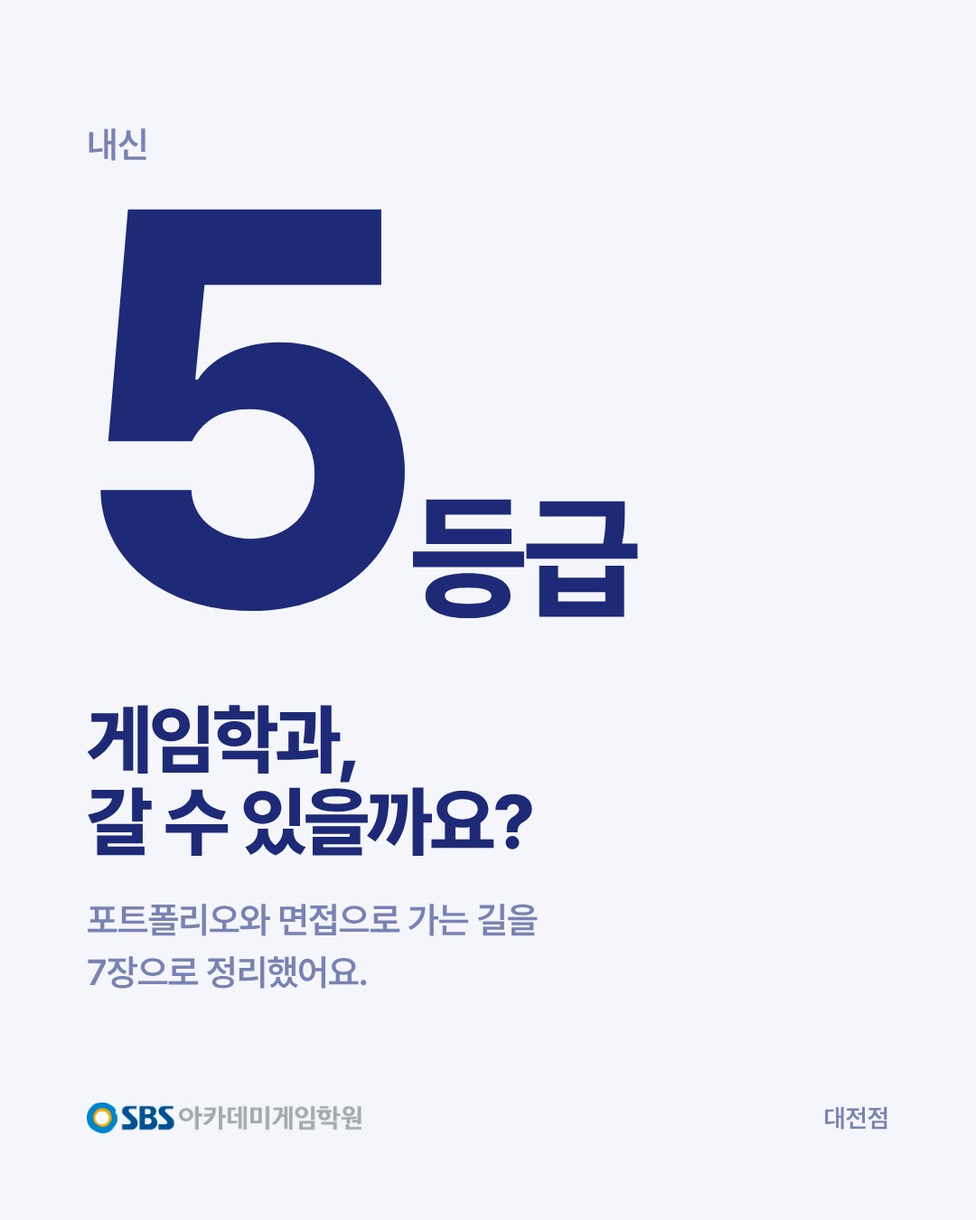
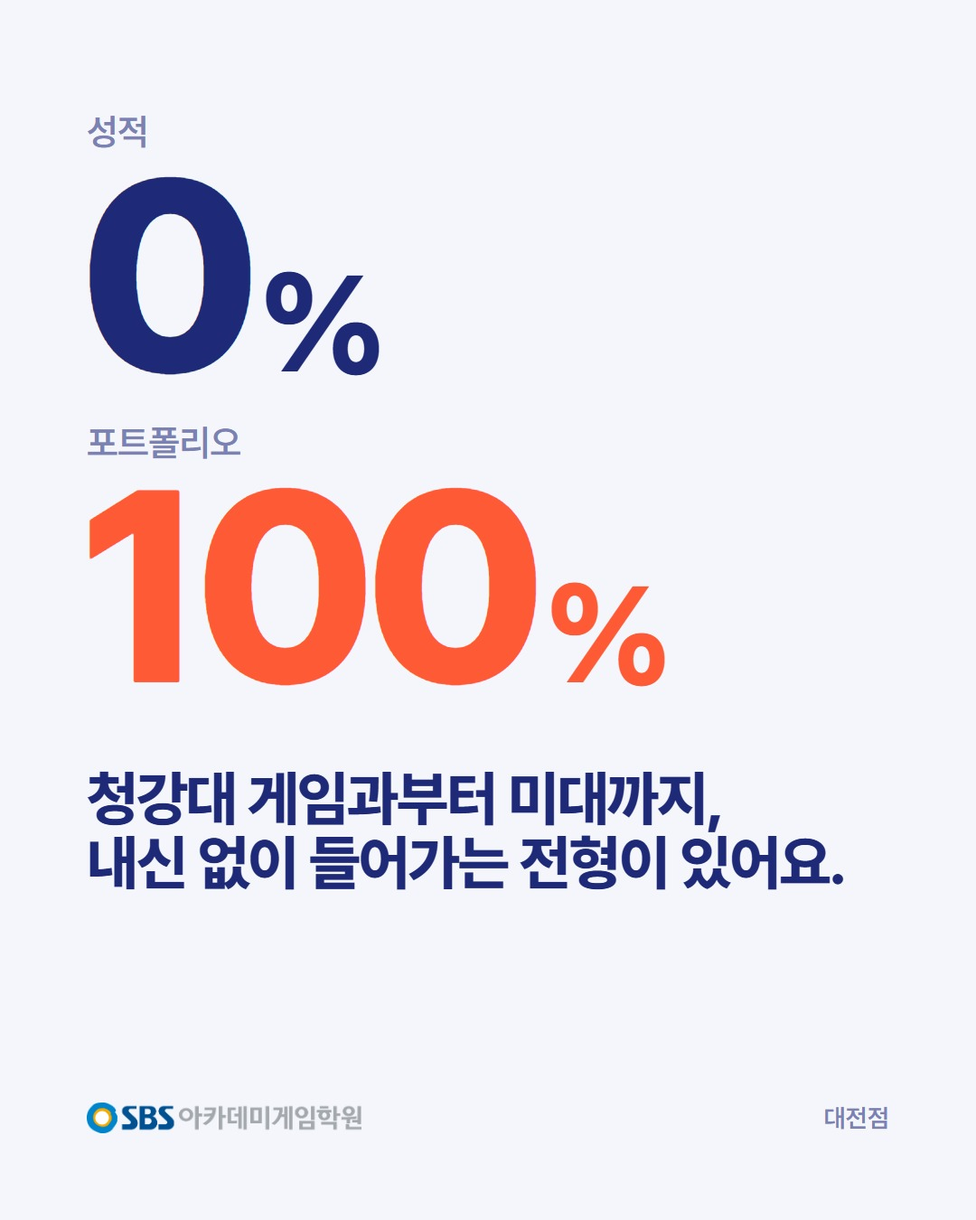
인스타 02 카드뉴스 개정: 성적 0%·포트폴리오 100% 6장, humanize-korean 윤문 캡션
- build_carousels_v2.py 02 구간을 6장으로 교체(청강대 면접전형·계원예대·수시 2차 일정·상담 안내), 7번째 장 삭제
- v2_02_01~06 PNG/JPEG 재생성, README 캡션·표·캡션 규칙(후킹·상담 유입·humanize 문체·게임과+미대 범위) 갱신
- 인수인계: humanize-korean 스킬 설치 위치와 문구 규칙 기록

Changed region(s): [[0.0917, 0.0933, 0.8556, 0.8089]]

diff --git a/instagram/assets/src/v2_02_03.html b/instagram/assets/src/v2_02_03.html
@@ -21,25 +21,11 @@ body{background:#fff}
 h1{font-weight:800;letter-spacing:-3px;line-height:1.08}
 .mark{color:#FF5A36}
 </style></head>
-<body><div class="canvas" style="width:1080px;height:1350px"><div class="in"><div class="top"><span><b>입시</b>&nbsp; 성적이 낮아도 게임학과</span><span>3/7</span></div>
-<h1 style="margin-top:48px;font-size:88px">같은 5등급,<br>다른 위치예요.</h1>
-
-<div style="margin-top:54px">
-<div style="display:flex;justify-content:space-between;align-items:baseline"><span class="body" style="font-weight:700">9등급제 — 지금 고3</span><span class="small">2027 대입</span></div>
-<div style="position:relative;height:44px;margin-top:18px;background:#fff;border:3px solid #1E2A78;border-radius:4px">
-  <div style="position:absolute;top:0;bottom:0;left:40%;width:20%;background:#1E2A78"></div>
-  <div style="position:absolute;top:-34px;left:50.0%;transform:translateX(-50%);font-size:30px;font-weight:800;color:#1E2A78">5</div>
+<body><div class="canvas" style="width:1080px;height:1350px"><div class="in"><div class="top"><span><b>입시</b>&nbsp; 성적 0%, 포트폴리오 100%</span><span>3/6</span></div>
+<h1 style="margin-top:48px;font-size:88px">청강대 말고도<br>그런 데가 있어요.</h1>
+<div class="body" style="margin-top:64px;line-height:1.6">
+<p>계원예대 게임미디어과도<br><span style="font-size:64px;font-weight:800;letter-spacing:-2px">면접 100%</span>예요.</p>
+<p style="margin-top:40px">미대 쪽에도 손그림 실기 없이<br>포트폴리오랑 면접으로 뽑는 전형이 있어요.</p>
 </div>
-<div class="small" style="display:flex;justify-content:space-between;margin-top:10px"><span>상위 0%</span><span>100%</span></div>
-</div>
-
-<div style="margin-top:54px">
-<div style="display:flex;justify-content:space-between;align-items:baseline"><span class="body" style="font-weight:700">5등급제 — 지금 고1·고2</span><span class="small">2028 대입부터</span></div>
-<div style="position:relative;height:44px;margin-top:18px;background:#fff;border:3px solid #1E2A78;border-radius:4px">
-  <div style="position:absolute;top:0;bottom:0;left:90%;width:10%;background:#FF5A36"></div>
-  <div style="position:absolute;top:-34px;left:95.0%;transform:translateX(-50%);font-size:30px;font-weight:800;color:#FF5A36">5</div>
-</div>
-<div class="small" style="display:flex;justify-content:space-between;margin-top:10px"><span>상위 0%</span><span>100%</span></div>
-</div>
-<p class="body" style="margin-top:60px">'5등급 합격 후기'를 볼 때는<br>어느 등급제 이야기인지 먼저 확인하세요.</p>
+<p class="lead" style="margin-top:72px">그림으로 대학 가는 길이<br><u style="text-decoration-color:#FF5A36;text-decoration-thickness:8px;text-underline-offset:12px">실기 하나만은 아니거든요.</u></p>
 <div class="foot"><img src="logo/SBS아카데미게임학원_Color.png" alt="SBS아카데미게임학원"><span>대전점</span></div></div></div></body></html>

diff --git a/instagram/assets/src/v2_02_06.html b/instagram/assets/src/v2_02_06.html
@@ -21,18 +21,12 @@ body{background:#fff}
 h1{font-weight:800;letter-spacing:-3px;line-height:1.08}
 .mark{color:#FF5A36}
 </style></head>
-<body><div class="canvas" style="width:1080px;height:1350px"><div class="in"><div class="top"><span><b>입시</b>&nbsp; 성적이 낮아도 게임학과</span><span>6/7</span></div>
-<h1 style="margin-top:48px;font-size:88px">지금 10월,<br>학년별로 할 일</h1>
-
-<div style="display:flex;gap:30px;align-items:flex-start;margin-top:40px">
-<div style="flex:none;width:170px;font-size:92px;font-weight:800;letter-spacing:-4px;line-height:1;color:#FF5A36">고2</div>
-<p class="body" style="padding-top:14px">2028 모집요강 확인, 포트폴리오 첫 작품 시작.<br>겨울방학에 작품에 집중해요.</p></div>
-
-<div style="display:flex;gap:30px;align-items:flex-start;margin-top:40px">
-<div style="flex:none;width:170px;font-size:92px;font-weight:800;letter-spacing:-4px;line-height:1;color:#1E2A78">고1</div>
-<p class="body" style="padding-top:14px">내신을 챙기면서 게임 관련 진로 활동을<br>학생부에 남겨요. 2학년 전에 전공 방향 정하기.</p></div>
-
-<div style="display:flex;gap:30px;align-items:flex-start;margin-top:40px">
-<div style="flex:none;width:170px;font-size:92px;font-weight:800;letter-spacing:-4px;line-height:1;color:#1E2A78">고3</div>
-<p class="body" style="padding-top:14px">지원한 대학의 면접 준비 마무리.<br>정시 일정은 대학별로 꼭 확인해요.</p></div>
-<div class="foot"><img src="logo/SBS아카데미게임학원_Color.png" alt="SBS아카데미게임학원"><span>대전점</span></div></div></div></body></html>
+<body><div class="canvas" style="width:1080px;height:1350px"><div class="in"><div class="top"><span><b>입시</b>&nbsp; 성적 0%, 포트폴리오 100%</span><span>6/6</span></div>
+<h1 style="margin-top:60px;font-size:92px">내 성적으로<br>어느 전형까지 되는지</h1>
+<p class="lead" style="margin-top:44px">성적표 한 장 들고 오세요.<br>게임·웹툰·애니·디자인, 그림으로 가는 학과라면<br>전형별 가능성이랑 준비 순서를 정리해 드려요.</p>
+<div class="body" style="margin-top:72px;line-height:1.8">
+<p>프로필 링크에서 <b style="color:#FF5A36">상담 신청</b> &nbsp;<span class="small">1~2분</span></p>
+<p>전화 042-716-7439 &nbsp;<span class="small">09:00~22:00</span></p>
+<p>대전광역시 서구 대덕대로 179, 5층<br><span class="small">둔산동, 엠제이굿모닝어학원빌딩 501호</span></p>
+</div>
+<div class="foot"><img src="logo/SBS아카데미게임학원_Color.png" alt="SBS아카데미게임학원"><span>@sbs_game_daejeon</span></div></div></div></body></html>

diff --git a/instagram/assets/src/v2_02_02.html b/instagram/assets/src/v2_02_02.html
@@ -21,11 +21,18 @@ body{background:#fff}
 h1{font-weight:800;letter-spacing:-3px;line-height:1.08}
 .mark{color:#FF5A36}
 </style></head>
-<body><div class="canvas" style="width:1080px;height:1350px"><div class="in"><div class="top"><span><b>입시</b>&nbsp; 성적이 낮아도 게임학과</span><span>2/7</span></div>
-<h1 style="margin-top:60px;font-size:112px">포기할<br>필요 없어요.</h1>
-<p class="lead" style="margin-top:48px">게임학과에는 내신보다 <u style="text-decoration-color:#FF5A36;text-decoration-thickness:8px;text-underline-offset:12px">포트폴리오와 면접</u>을<br>더 크게 보는 전형이 있어요.</p>
-<div class="body" style="margin-top:72px">
-<p>먼저 확인할 것은 두 가지예요.</p>
-<p>내 5등급이 <b>어느 등급제</b>의 5등급인지,<br>가고 싶은 대학이 <b>어떤 전형</b>으로 뽑는지.</p>
+<body><div class="canvas" style="width:1080px;height:1350px"><div class="in"><div class="top"><span><b>입시</b>&nbsp; 성적 0%, 포트폴리오 100%</span><span>2/6</span></div>
+<h1 style="margin-top:44px;font-size:84px">청강대는 면접전형으로<br>제일 많이 뽑아요.</h1>
+<p class="small" style="margin-top:22px">게임콘텐츠스쿨 면접전형</p>
+<div style="margin-top:10px;display:flex;align-items:flex-end;gap:28px">
+  <div style="font-size:210px;line-height:.85;font-weight:800;letter-spacing:-10px;color:#1E2A78">100<span style="font-size:100px;letter-spacing:-2px">%</span></div>
+  <p class="body" style="padding-bottom:12px">면접</p>
 </div>
+<p class="body" style="margin-top:28px">포트폴리오로 평가해요. <b style="color:#FF5A36">내신은 안 봐요.</b></p>
+<div style="margin-top:44px;display:flex;gap:72px">
+  <div><div style="font-size:120px;line-height:.9;font-weight:800;letter-spacing:-5px">88<span style="font-size:48px;letter-spacing:-1px;margin-left:6px">명</span></div><p class="small" style="margin-top:10px">수시 1차</p></div>
+  <div><div style="font-size:120px;line-height:.9;font-weight:800;letter-spacing:-5px">50<span style="font-size:48px;letter-spacing:-1px;margin-left:6px">명</span></div><p class="small" style="margin-top:10px">수시 2차</p></div>
+</div>
+<p class="body" style="margin-top:40px">애니메이션 스쿨, 웹툰 스쿨도<br>면접전형은 똑같아요.</p>
+<p class="small" style="margin-top:auto;padding-bottom:40px">출처: ZDNet Korea 2026.09.09, 청강대 2027학년도 모집요강</p>
 <div class="foot"><img src="logo/SBS아카데미게임학원_Color.png" alt="SBS아카데미게임학원"><span>대전점</span></div></div></div></body></html>

diff --git a/instagram/assets/src/v2_02_05.html b/instagram/assets/src/v2_02_05.html
@@ -21,16 +21,16 @@ body{background:#fff}
 h1{font-weight:800;letter-spacing:-3px;line-height:1.08}
 .mark{color:#FF5A36}
 </style></head>
-<body><div class="canvas" style="width:1080px;height:1350px"><div class="in"><div class="top"><span><b>입시</b>&nbsp; 성적이 낮아도 게임학과</span><span>5/7</span></div>
-<h1 style="margin-top:48px;font-size:84px">포트폴리오·면접 전형,<br>이렇게 뽑아요.</h1>
-<p class="small" style="margin-top:20px">예: 청강문화산업대 게임콘텐츠스쿨 면접전형 (2027학년도)</p>
-<div style="margin-top:64px;display:flex;align-items:flex-end;gap:36px">
-  <div style="font-size:230px;line-height:.8;font-weight:800;letter-spacing:-10px;color:#FF5A36">88</div>
-  <div class="body" style="padding-bottom:14px">명 모집</div>
-</div>
-<div class="body" style="margin-top:64px;line-height:1.7">
-<p><b>1</b>&nbsp; 서류로 2배수를 먼저 뽑고</p>
-<p><b>2</b>&nbsp; 심층면접으로 최종 선발</p>
-</div>
-<p class="small" style="margin-top:auto;padding-bottom:40px">출처: ZDNet Korea, 청강문화산업대 게임콘텐츠스쿨 (2026.09.09)<br>전형은 해마다 바뀌어요. 지원 전에 대학 모집요강을 확인하세요.</p>
+<body><div class="canvas" style="width:1080px;height:1350px"><div class="in"><div class="top"><span><b>입시</b>&nbsp; 성적 0%, 포트폴리오 100%</span><span>5/6</span></div>
+<h1 style="margin-top:48px;font-size:84px">수시 2차 원서접수</h1>
+<div style="margin-top:30px;font-size:118px;line-height:1;font-weight:800;letter-spacing:-5px;color:#FF5A36">11월 11일 ~ 25일</div>
+
+<div style="display:flex;gap:30px;align-items:flex-start;margin-top:44px">
+<div style="flex:none;width:250px;font-size:84px;font-weight:800;letter-spacing:-4px;line-height:1;color:#1E2A78">고3</div>
+<p class="body" style="padding-top:12px">지금 있는 작품으로 어디까지 되는지<br>바로 확인해야 하고요.</p></div>
+
+<div style="display:flex;gap:30px;align-items:flex-start;margin-top:44px">
+<div style="flex:none;width:250px;font-size:84px;font-weight:800;letter-spacing:-4px;line-height:1;color:#1E2A78">고1·고2</div>
+<p class="body" style="padding-top:12px">겨울방학 전에 포트폴리오<br>방향부터 잡아야 해요.</p></div>
+<p class="small" style="margin-top:auto;padding-bottom:40px">출처: 전문대학 2027학년도 수시 2차 일정 안내</p>
 <div class="foot"><img src="logo/SBS아카데미게임학원_Color.png" alt="SBS아카데미게임학원"><span>대전점</span></div></div></div></body></html>

diff --git a/instagram/assets/src/v2_02_04.html b/instagram/assets/src/v2_02_04.html
@@ -21,15 +21,12 @@ body{background:#fff}
 h1{font-weight:800;letter-spacing:-3px;line-height:1.08}
 .mark{color:#FF5A36}
 </style></head>
-<body><div class="canvas" style="width:1080px;height:1350px"><div class="in"><div class="top"><span><b>입시</b>&nbsp; 성적이 낮아도 게임학과</span><span>4/7</span></div>
-<h1 style="margin-top:48px;font-size:88px">게임학과 전형은<br>네 갈래예요.</h1>
-<div class="body" style="margin-top:56px;line-height:1.7">
-<p>학생부교과 &nbsp;<span class="small">내신이 핵심</span></p>
-<p>학생부종합 &nbsp;<span class="small">성적과 활동, 면접을 함께</span></p>
-<p>실기위주 &nbsp;<span class="small">시험장에서 그리는 실기가 당락을 좌우</span></p>
+<body><div class="canvas" style="width:1080px;height:1350px"><div class="in"><div class="top"><span><b>입시</b>&nbsp; 성적 0%, 포트폴리오 100%</span><span>4/6</span></div>
+<h1 style="margin-top:48px;font-size:72px;letter-spacing:-2px">그럼 다들 물어요.</h1>
+<h1 style="margin-top:14px;font-size:100px">“내 성적으로<br>되나요?”</h1>
+<div class="body" style="margin-top:56px;line-height:1.6">
+<p>우리 학교가 5등급제인지 9등급제인지에 따라<br>내 위치가 다르게 보여요.</p>
+<p>대학마다 비교과 요건이 따로 있고<br>게임·웹툰·애니·디자인은 내는 포트폴리오가 다 달라요.</p>
 </div>
-<div style="margin-top:44px;padding-left:28px;border-left:14px solid #FF5A36">
-<div style="font-size:70px;font-weight:800;letter-spacing:-2.5px;line-height:1.1">포트폴리오·면접</div>
-<p class="body" style="margin-top:14px">준비해 온 작품과 면접으로 평가해요.<br>내신이 낮을 때 주력으로 잡는 전형이에요.</p>
-</div>
+<p class="lead" style="margin-top:auto;padding-bottom:40px">성적표랑 학생부 들고 오시면<br><b style="color:#FF5A36">전형별로 같이 봐 드려요.</b></p>
 <div class="foot"><img src="logo/SBS아카데미게임학원_Color.png" alt="SBS아카데미게임학원"><span>대전점</span></div></div></div></body></html>

diff --git a/instagram/assets/src/v2_02_01.html b/instagram/assets/src/v2_02_01.html
@@ -22,8 +22,11 @@ h1{font-weight:800;letter-spacing:-3px;line-height:1.08}
 .mark{color:#FF5A36}
 </style></head>
 <body><div class="canvas" style="width:1080px;height:1350px"><div class="in">
-<div style="margin-top:40px;font-size:40px;font-weight:600;color:#7A82B4;letter-spacing:-.5px">내신</div>
-<div style="font-size:620px;line-height:.86;font-weight:800;letter-spacing:-30px;margin-left:-18px;color:#1E2A78">5<span style="font-size:150px;letter-spacing:-4px;margin-left:10px;vertical-align:baseline">등급</span></div>
-<h1 style="margin-top:56px;font-size:84px">게임학과,<br>갈 수 있을까요?</h1>
-<p class="lead" style="margin-top:34px;color:#7A82B4">포트폴리오와 면접으로 가는 길을<br>7장으로 정리했어요.</p>
+
+<div style="margin-top:26px;font-size:40px;font-weight:600;color:#7A82B4;letter-spacing:-.5px">성적</div>
+<div style="font-size:300px;line-height:.9;font-weight:800;letter-spacing:-16px;margin-left:-10px;color:#1E2A78">0<span style="font-size:150px;letter-spacing:-3px;margin-left:8px">%</span></div>
+
+<div style="margin-top:26px;font-size:40px;font-weight:600;color:#7A82B4;letter-spacing:-.5px">포트폴리오</div>
+<div style="font-size:300px;line-height:.9;font-weight:800;letter-spacing:-16px;margin-left:-10px;color:#FF5A36">100<span style="font-size:150px;letter-spacing:-3px;margin-left:8px">%</span></div>
+<h1 style="margin-top:64px;font-size:66px;letter-spacing:-2px">청강대 게임과부터 미대까지,<br>내신 없이 들어가는 전형이 있어요.</h1>
 <div class="foot"><img src="logo/SBS아카데미게임학원_Color.png" alt="SBS아카데미게임학원"><span>대전점</span></div></div></div></body></html>

diff --git a/instagram/build_carousels_v2.py b/instagram/build_carousels_v2.py
@@ -1,7 +1,7 @@
 """카드뉴스 v2 — .claude/skills/frontend-design/적용규칙.md 를 적용한 버전 (2026-10-28).
 
 사용: python3 instagram/build_carousels_v2.py && node .claude/skills/aeo-blog/scripts/render.mjs instagram/assets
-파일: instagram/assets/v2_02_01.png ~ v2_02_07.png, v2_03_01.png ~ v2_03_07.png (표지 포함 각 7장)
+파일: instagram/assets/v2_02_01.png ~ v2_02_06.png (6장, 2026-10-29 개정), v2_03_01.png ~ v2_03_07.png (7장)
        특정 묶음만 렌더링: node .claude/skills/aeo-blog/scripts/render.mjs instagram/assets v2_03_
 
 디자인 계획(02 성적이 낮아도 게임학과):
@@ -42,92 +42,82 @@ def frame(n, body, chip="입시", series="성적이 낮아도 게임학과", tot
     return page(1080, 1350, f'<div class="in">{top}{body}{foot}</div>', CSS)
 
 
-# 1 표지 — 거대한 5 하나가 전부
-S1 = f"""
-<div style="margin-top:40px;font-size:40px;font-weight:600;color:{MIST};letter-spacing:-.5px">내신</div>
-<div style="font-size:620px;line-height:.86;font-weight:800;letter-spacing:-30px;margin-left:-18px;color:{NAVY}">5<span style="font-size:150px;letter-spacing:-4px;margin-left:10px;vertical-align:baseline">등급</span></div>
-<h1 style="margin-top:56px;font-size:84px">게임학과,<br>갈 수 있을까요?</h1>
-<p class="lead" style="margin-top:34px;color:{MIST}">포트폴리오와 면접으로 가는 길을<br>7장으로 정리했어요.</p>
-"""
+# ───────────────────────── 02 성적 0%, 포트폴리오 100% (2026-10-29 개정, 6장) ─────────────────────────
+# 목표는 상담 유입. 청강대를 앞세워 "내신을 안 보는 전형"을 알리고, 내 성적으로 되는지는 상담에서 보게 한다.
+# 문구는 humanize-korean 윤문본 그대로. 수치: ZDNet 2026.09.09(청강대 88·50명), 계원예대 2026 요강(면접 100%),
+# 전문대학 2027 수시 2차 접수 11.11~25. 오렌지는 장마다 한 곳.
 
-# 2 결론
-S2 = f"""
-<h1 style="margin-top:60px;font-size:112px">포기할<br>필요 없어요.</h1>
-<p class="lead" style="margin-top:48px">게임학과에는 내신보다 <u style="text-decoration-color:{ORANGE};text-decoration-thickness:8px;text-underline-offset:12px">포트폴리오와 면접</u>을<br>더 크게 보는 전형이 있어요.</p>
-<div class="body" style="margin-top:72px">
-<p>먼저 확인할 것은 두 가지예요.</p>
-<p>내 5등급이 <b>어느 등급제</b>의 5등급인지,<br>가고 싶은 대학이 <b>어떤 전형</b>으로 뽑는지.</p>
-</div>
-"""
-
-# 3 같은 5등급, 다른 위치 — 눈금 막대 (정보 구조)
-def scale(label, lo, hi, note, hot):
+def pct(label, num, hot=False, size=300):
     col = ORANGE if hot else NAVY
     return f"""
-<div style="margin-top:54px">
-<div style="display:flex;justify-content:space-between;align-items:baseline"><span class="body" style="font-weight:700">{label}</span><span class="small">{note}</span></div>
-<div style="position:relative;height:44px;margin-top:18px;background:#fff;border:3px solid {NAVY};border-radius:4px">
-  <div style="position:absolute;top:0;bottom:0;left:{lo}%;width:{hi-lo}%;background:{col}"></div>
-  <div style="position:absolute;top:-34px;left:{(lo+hi)/2}%;transform:translateX(-50%);font-size:30px;font-weight:800;color:{col}">5</div>
-</div>
-<div class="small" style="display:flex;justify-content:space-between;margin-top:10px"><span>상위 0%</span><span>100%</span></div>
-</div>"""
+<div style="margin-top:26px;font-size:40px;font-weight:600;color:{MIST};letter-spacing:-.5px">{label}</div>
+<div style="font-size:{size}px;line-height:.9;font-weight:800;letter-spacing:-16px;margin-left:-10px;color:{col}">{num}<span style="font-size:{size//2}px;letter-spacing:-3px;margin-left:8px">%</span></div>"""
 
+# 1 표지 — 0%와 100%, 숫자 둘이 전부
+S1 = f"""
+{pct("성적", "0")}
+{pct("포트폴리오", "100", True)}
+<h1 style="margin-top:64px;font-size:66px;letter-spacing:-2px">청강대 게임과부터 미대까지,<br>내신 없이 들어가는 전형이 있어요.</h1>
+"""
+
+# 2 청강대 면접전형 — 100%와 모집 인원
+S2 = f"""
+<h1 style="margin-top:44px;font-size:84px">청강대는 면접전형으로<br>제일 많이 뽑아요.</h1>
+<p class="small" style="margin-top:22px">게임콘텐츠스쿨 면접전형</p>
+<div style="margin-top:10px;display:flex;align-items:flex-end;gap:28px">
+  <div style="font-size:210px;line-height:.85;font-weight:800;letter-spacing:-10px;color:{NAVY}">100<span style="font-size:100px;letter-spacing:-2px">%</span></div>
+  <p class="body" style="padding-bottom:12px">면접</p>
+</div>
+<p class="body" style="margin-top:28px">포트폴리오로 평가해요. <b style="color:{ORANGE}">내신은 안 봐요.</b></p>
+<div style="margin-top:44px;display:flex;gap:72px">
+  <div><div style="font-size:120px;line-height:.9;font-weight:800;letter-spacing:-5px">88<span style="font-size:48px;letter-spacing:-1px;margin-left:6px">명</span></div><p class="small" style="margin-top:10px">수시 1차</p></div>
+  <div><div style="font-size:120px;line-height:.9;font-weight:800;letter-spacing:-5px">50<span style="font-size:48px;letter-spacing:-1px;margin-left:6px">명</span></div><p class="small" style="margin-top:10px">수시 2차</p></div>
+</div>
+<p class="body" style="margin-top:40px">애니메이션 스쿨, 웹툰 스쿨도<br>면접전형은 똑같아요.</p>
+<p class="small" style="margin-top:auto;padding-bottom:40px">출처: ZDNet Korea 2026.09.09, 청강대 2027학년도 모집요강</p>
+"""
+
+# 3 청강대 말고도
 S3 = f"""
-<h1 style="margin-top:48px;font-size:88px">같은 5등급,<br>다른 위치예요.</h1>
-{scale("9등급제 — 지금 고3", 40, 60, "2027 대입", False)}
-{scale("5등급제 — 지금 고1·고2", 90, 100, "2028 대입부터", True)}
-<p class="body" style="margin-top:60px">'5등급 합격 후기'를 볼 때는<br>어느 등급제 이야기인지 먼저 확인하세요.</p>
+<h1 style="margin-top:48px;font-size:88px">청강대 말고도<br>그런 데가 있어요.</h1>
+<div class="body" style="margin-top:64px;line-height:1.6">
+<p>계원예대 게임미디어과도<br><span style="font-size:64px;font-weight:800;letter-spacing:-2px">면접 100%</span>예요.</p>
+<p style="margin-top:40px">미대 쪽에도 손그림 실기 없이<br>포트폴리오랑 면접으로 뽑는 전형이 있어요.</p>
+</div>
+<p class="lead" style="margin-top:72px">그림으로 대학 가는 길이<br><u style="text-decoration-color:{ORANGE};text-decoration-thickness:8px;text-underline-offset:12px">실기 하나만은 아니거든요.</u></p>
 """
 
-# 4 전형 4가지 — 나열이므로 상자·번호 없이, 포트폴리오·면접만 크게
+# 4 내 성적으로 되나요?
 S4 = f"""
-<h1 style="margin-top:48px;font-size:88px">게임학과 전형은<br>네 갈래예요.</h1>
-<div class="body" style="margin-top:56px;line-height:1.7">
-<p>학생부교과 &nbsp;<span class="small">내신이 핵심</span></p>
-<p>학생부종합 &nbsp;<span class="small">성적과 활동, 면접을 함께</span></p>
-<p>실기위주 &nbsp;<span class="small">시험장에서 그리는 실기가 당락을 좌우</span></p>
+<h1 style="margin-top:48px;font-size:72px;letter-spacing:-2px">그럼 다들 물어요.</h1>
+<h1 style="margin-top:14px;font-size:100px">“내 성적으로<br>되나요?”</h1>
+<div class="body" style="margin-top:56px;line-height:1.6">
+<p>우리 학교가 5등급제인지 9등급제인지에 따라<br>내 위치가 다르게 보여요.</p>
+<p>대학마다 비교과 요건이 따로 있고<br>게임·웹툰·애니·디자인은 내는 포트폴리오가 다 달라요.</p>
 </div>
-<div style="margin-top:44px;padding-left:28px;border-left:14px solid {ORANGE}">
-<div style="font-size:70px;font-weight:800;letter-spacing:-2.5px;line-height:1.1">포트폴리오·면접</div>
-<p class="body" style="margin-top:14px">준비해 온 작품과 면접으로 평가해요.<br>내신이 낮을 때 주력으로 잡는 전형이에요.</p>
-</div>
+<p class="lead" style="margin-top:auto;padding-bottom:40px">성적표랑 학생부 들고 오시면<br><b style="color:{ORANGE}">전형별로 같이 봐 드려요.</b></p>
 """
 
-# 5 이렇게 뽑아요 — 실제 순서이므로 번호 사용
-S5 = f"""
-<h1 style="margin-top:48px;font-size:84px">포트폴리오·면접 전형,<br>이렇게 뽑아요.</h1>
-<p class="small" style="margin-top:20px">예: 청강문화산업대 게임콘텐츠스쿨 면접전형 (2027학년도)</p>
-<div style="margin-top:64px;display:flex;align-items:flex-end;gap:36px">
-  <div style="font-size:230px;line-height:.8;font-weight:800;letter-spacing:-10px;color:{ORANGE}">88</div>
-  <div class="body" style="padding-bottom:14px">명 모집</div>
-</div>
-<div class="body" style="margin-top:64px;line-height:1.7">
-<p><b>1</b>&nbsp; 서류로 2배수를 먼저 뽑고</p>
-<p><b>2</b>&nbsp; 심층면접으로 최종 선발</p>
-</div>
-<p class="small" style="margin-top:auto;padding-bottom:40px">출처: ZDNet Korea, 청강문화산업대 게임콘텐츠스쿨 (2026.09.09)<br>전형은 해마다 바뀌어요. 지원 전에 대학 모집요강을 확인하세요.</p>
-"""
-
-# 6 학년별 할 일 — 순서가 아니므로 번호 없음, 학년을 큰 글자로
+# 5 수시 2차 일정 — 학년은 큰 글자, 번호 없음
 def grade(g, text, hot=False):
     return f"""
-<div style="display:flex;gap:30px;align-items:flex-start;margin-top:40px">
-<div style="flex:none;width:170px;font-size:92px;font-weight:800;letter-spacing:-4px;line-height:1;color:{ORANGE if hot else NAVY}">{g}</div>
-<p class="body" style="padding-top:14px">{text}</p></div>"""
+<div style="display:flex;gap:30px;align-items:flex-start;margin-top:44px">
+<div style="flex:none;width:250px;font-size:84px;font-weight:800;letter-spacing:-4px;line-height:1;color:{ORANGE if hot else NAVY}">{g}</div>
+<p class="body" style="padding-top:12px">{text}</p></div>"""
 
-S6 = f"""
-<h1 style="margin-top:48px;font-size:88px">지금 10월,<br>학년별로 할 일</h1>
-{grade("고2", "2028 모집요강 확인, 포트폴리오 첫 작품 시작.<br>겨울방학에 작품에 집중해요.", True)}
-{grade("고1", "내신을 챙기면서 게임 관련 진로 활동을<br>학생부에 남겨요. 2학년 전에 전공 방향 정하기.")}
-{grade("고3", "지원한 대학의 면접 준비 마무리.<br>정시 일정은 대학별로 꼭 확인해요.")}
+S5 = f"""
+<h1 style="margin-top:48px;font-size:84px">수시 2차 원서접수</h1>
+<div style="margin-top:30px;font-size:118px;line-height:1;font-weight:800;letter-spacing:-5px;color:{ORANGE}">11월 11일 ~ 25일</div>
+{grade("고3", "지금 있는 작품으로 어디까지 되는지<br>바로 확인해야 하고요.")}
+{grade("고1·고2", "겨울방학 전에 포트폴리오<br>방향부터 잡아야 해요.")}
+<p class="small" style="margin-top:auto;padding-bottom:40px">출처: 전문대학 2027학년도 수시 2차 일정 안내</p>
 """
 
-# 7 상담 — 버튼 흉내 대신 문장으로
-S7 = f"""
-<h1 style="margin-top:60px;font-size:92px">우리 학교, 우리 학년이면<br>어떤 전형일까요?</h1>
-<p class="lead" style="margin-top:44px">모집요강을 같이 펼쳐 놓고<br>전형별 준비 순서를 정리해 드려요.</p>
-<div class="body" style="margin-top:80px;line-height:1.8">
+# 6 상담 — 버튼 흉내 대신 문장으로
+S6 = f"""
+<h1 style="margin-top:60px;font-size:92px">내 성적으로<br>어느 전형까지 되는지</h1>
+<p class="lead" style="margin-top:44px">성적표 한 장 들고 오세요.<br>게임·웹툰·애니·디자인, 그림으로 가는 학과라면<br>전형별 가능성이랑 준비 순서를 정리해 드려요.</p>
+<div class="body" style="margin-top:72px;line-height:1.8">
 <p>프로필 링크에서 <b style="color:{ORANGE}">상담 신청</b> &nbsp;<span class="small">1~2분</span></p>
 <p>전화 042-716-7439 &nbsp;<span class="small">09:00~22:00</span></p>
 <p>대전광역시 서구 대덕대로 179, 5층<br><span class="small">둔산동, 엠제이굿모닝어학원빌딩 501호</span></p>
@@ -230,7 +220,7 @@ K7 = f"""
 """
 
 SETS = {
-    "02": ("입시", "성적이 낮아도 게임학과", [S1, S2, S3, S4, S5, S6, S7]),
+    "02": ("입시", "성적 0%, 포트폴리오 100%", [S1, S2, S3, S4, S5, S6]),
     "03": (K_CHIP, K_SERIES, [K1, K2, K3, K4, K5, K6, K7]),
 }
 

diff --git a/instagram/README.md b/instagram/README.md
@@ -82,7 +82,7 @@ SBS아카데미게임학원 대전점 🎮
 | # | 대상 | 표지 제목 | 원본 블로그 글(내용·근거) |
 |---|---|---|---|
 | 01 | 공통 | 입시·취업 상담, 1~2분이면 신청돼요 | 상담 폼 안내 |
-| 02 | 입시 | 성적이 낮아도 게임학과 갈 수 있을까? | 2026-10-01 게임학과-내신-5등급 |
+| 02 | 입시 | 성적 0%, 포트폴리오 100% (청강대 게임과부터 미대까지) | 2026-10-01 게임학과-내신-5등급 + 2026-10-06 청강대-게임과-포트폴리오 |
 | 03 | 취업 | 국비로 배우는 게임·웹툰 과정 | 2026-10-19 대전-국비지원-교육 |
 | 04 | 입시 | 게임학과, 다 같은 과가 아니에요 | 2026-10-03 게임학과-종류 |
 | 05 | 입시 | 청강대 게임과 면접전형 준비 순서 | 2026-10-06 청강대-게임과-포트폴리오 |
@@ -92,6 +92,7 @@ SBS아카데미게임학원 대전점 🎮
 | 09 | 취업 | 유니티 입문, 어디서부터? | 2026-10-19 유니티-입문 |
 
 - 지금 만든 것은 **표지(첫 장)**다. 넘겨 보는 본문 장(5~7장)은 다음 단계에서 블로그 글 내용으로 만든다.
+- 표지와 캡션 첫 줄은 **후킹**으로 연다(전형 구조에서 나오는 수치는 "성적 0%"처럼 써도 됨, 출처 없는 입결 컷은 금지). 1목표는 **상담 유입**: 이런 전형이 있다 → 내 성적으로 되는지는 상담에서 → 지금이 시점. 문체는 **humanize-korean 스킬 기준**(AI 티 제거: 기계적 1·2·3 나열, 이모지 남발, "A가 아니라 B" 대구 반복, "문제는 ~" 분열문 금지). 범위는 게임과만이 아니라 그림으로 가는 학과 전반(게임·웹툰·애니·디자인·미대). (2026-10-29)
 - 해시태그는 게시물당 **3~5개**로 한다. 인스타그램이 해시태그 수를 줄이는 쪽으로 바뀌었다는 보도가 있으나 정확한 상한은 확인하지 못했다(추정).
 
 ### 캡션 초안 (고정 게시물 3개)
@@ -112,23 +113,17 @@ SBS아카데미게임학원 대전점 🎮
 
 #대전게임학원 #게임학과입시 #게임취업 #웹툰학원 #대전입시
 ```
-**02 성적이 낮아도 게임학과**
+**02 성적 0%, 포트폴리오 100%**
 ```
-성적이 낮아도 게임학과 갈 수 있을까요? 🎮
+성적 0%, 포트폴리오 100%. 청강대 게임과부터 미대까지, 내신 없이 가는 전형이 있어요.
 
-내신만 보는 전형만 있는 게 아니에요.
-포트폴리오와 면접으로 평가하는 전형을 운영하는 대학이 있어요.
+청강대 게임콘텐츠스쿨 면접전형은 면접 100%로 뽑아요. 포트폴리오로 평가하고 내신은 안 봐요. 수시 1차 88명, 수시 2차 50명으로 제일 많이 뽑는 전형이에요. 애니메이션 스쿨이랑 웹툰 스쿨도 방식은 같아요. 계원예대 게임미디어과도 면접 100%고요. 손그림 실기를 안 보고 그림으로 대학 가는 길이 생각보다 여러 개예요.
 
-넘겨서 확인해 보세요 👉
-1. 내 5등급은 어느 등급제의 5등급인지
-2. 게임학과 전형 4가지
-3. 포트폴리오·면접 전형은 어떻게 뽑는지
-4. 지금(10월) 학년별로 할 일
+"내 성적으로 되나요?" 이건 혼자 보면 헷갈려요. 우리 학교가 5등급제냐 9등급제냐에 따라 위치가 달라 보이고 대학마다 비교과 요건이 따로 있어요. 게임·웹툰·애니·디자인은 내는 포트폴리오가 다 다르거든요.
 
-학교별 모집요강은 매년 바뀌니, 지원 전에 꼭 원문을 확인하세요.
-상담 신청은 프로필 링크에서 🙌
+수시 2차 원서접수는 11월 11일에 시작해 25일에 마감돼요. 성적표랑 학생부 들고 오시면 전형별로 어디까지 되는지 같이 봐 드려요. 상담 신청은 프로필 링크에서, 1~2분이면 돼요.
 
-#게임학과 #게임학과입시 #포트폴리오전형 #대전게임학원 #고2입시
+#청강대 #게임학과입시 #미대입시 #포트폴리오전형 #대전게임학원
 ```
 **03 국비 과정**
 ```
@@ -157,12 +152,12 @@ SBS아카데미게임학원 대전점의 고용24 등재 과정
 `python3 instagram/build_carousels_v2.py && node .claude/skills/aeo-blog/scripts/render.mjs instagram/assets v2_`
 (번들 크로미움이 없는 PC: `PLAYWRIGHT_CHANNEL=chrome` 환경 변수로 설치된 Chrome 사용)
 
-| 게시물 | 파일(표지 포함 7장) | 기억 요소 | 근거 |
+| 게시물 | 파일(표지 포함) | 기억 요소 | 근거 |
 |---|---|---|---|
-| 02 | `v2_02_01~07.png` | 거대한 숫자 '5등급' | posts/2026-10-01 글(등급제 비교·전형 4종·청강대 면접전형 88명·서류 2배수, ZDNet 2026.09.09). 원글의 실기전형 권장은 빼고 포트폴리오·면접 전형 중심으로 재구성 |
+| 02 | `v2_02_01~06.png` (6장, 2026-10-29 개정) | 거대한 숫자 '0%·100%' | 청강대 게임콘텐츠스쿨 면접전형(면접 100%, 수시 1차 88명·2차 50명, ZDNet 2026.09.09)·계원예대 게임미디어과 면접 100%·전문대 수시 2차 접수 11.11~25. 상담 유입이 목표라 등급제·전형 4종 설명 장은 뺐다 |
 | 03 | `v2_03_01~07.png` | 거대한 숫자 '300만원' | posts/2026-10-19 글(고용24 내일배움카드 한도 300만원·자부담 0~55%·유효기간 5년, 신청 5단계, 국가기간·전략산업직종훈련) + brand/profile.md(대전점 등록 과정 3개, 입과 전 상담+간단한 실기). 훈련비·자부담 금액은 쓰지 않음 |
 
-업로드 순서: `v2_NN_01`(표지) → 02 → … → 07 (한 게시물에 7장 선택). 비율 4:5.
+업로드 순서: `v2_NN_01`(표지)부터 번호순(02는 6장, 03은 7장). 비율 4:5.
 
 <details><summary>이전 디자인(적용규칙 이전, 보관용)</summary>
 

diff --git a/docs/인수인계_마케팅채널.md b/docs/인수인계_마케팅채널.md
@@ -18,6 +18,8 @@
 - 입시 글의 결론·행동 안내는 **포트폴리오&면접 전형** 중심(`brand/profile.md`). 실기전형은 전형 설명에서만.
 - 기존 발행 블로그 글 17편에는 상담 폼 링크를 넣지 않는다. **다음 글부터** 넣는다(2026-10-24 결정).
 - 인스타 계정은 개인 계정과 연결된 상태지만 **새로 만들지 않고 유지**(2026-10-26). 학원 이메일·전용 비밀번호·2단계 인증 설정은 사용자가 앱에서 한다.
+- 문체: 외부에 나가는 문구(카드뉴스·캡션·블로그)는 **AI 티를 뺀 사람 말투**로 쓴다(2026-10-29 사용자 요청). 회사 PC에는 `humanize-korean` 스킬(epoko77-ai/im-not-ai, MIT)이 사용자 전역 `~/.claude/skills/`에 복사 설치돼 있다(원본 클론: `D:\정리파일\박현용\블로그\im-not-ai`, 업데이트는 그 폴더에서 `./update.sh --copy --force`). 새 세션에서 `/humanize-korean`으로 호출하거나, 짧은 문구는 그 스킬의 `references/quick-rules.md` 기준(번역투·기계적 병렬·이모지 남발·대구 반복·"~할 때입니다"식 결말 금지)으로 직접 쓴다. 클라우드 세션에는 설치돼 있지 않다.
+- 카드뉴스 1목표는 **상담 유입**이다(2026-10-29 사용자 확정). 정보 설명보다 "이런 전형이 있다 → 내 성적으로 되는지는 상담에서 본다 → 지금이 시점"으로 흐르게 하고, 표지·캡션 첫 줄은 후킹(전형 구조에서 나오는 수치는 "성적 0%"처럼 써도 됨, 입결 컷처럼 출처 없는 수치는 금지). 범위는 게임과만이 아니라 그림으로 가는 학과 전반(게임·웹툰·애니메이션·디자인·미대).
 - 디자인: `.claude/skills/frontend-design/적용규칙.md`를 따른다(2026-10-28 추가). 단어 하나 색 강조·똑같은 카드 반복·순서 아닌 번호·`→`·`A · B · C` 금지. 브랜드 색·Pretendard·로고 원본·NAP 표기는 고정.
 
 ## 2. 현재 상태 (완료)
